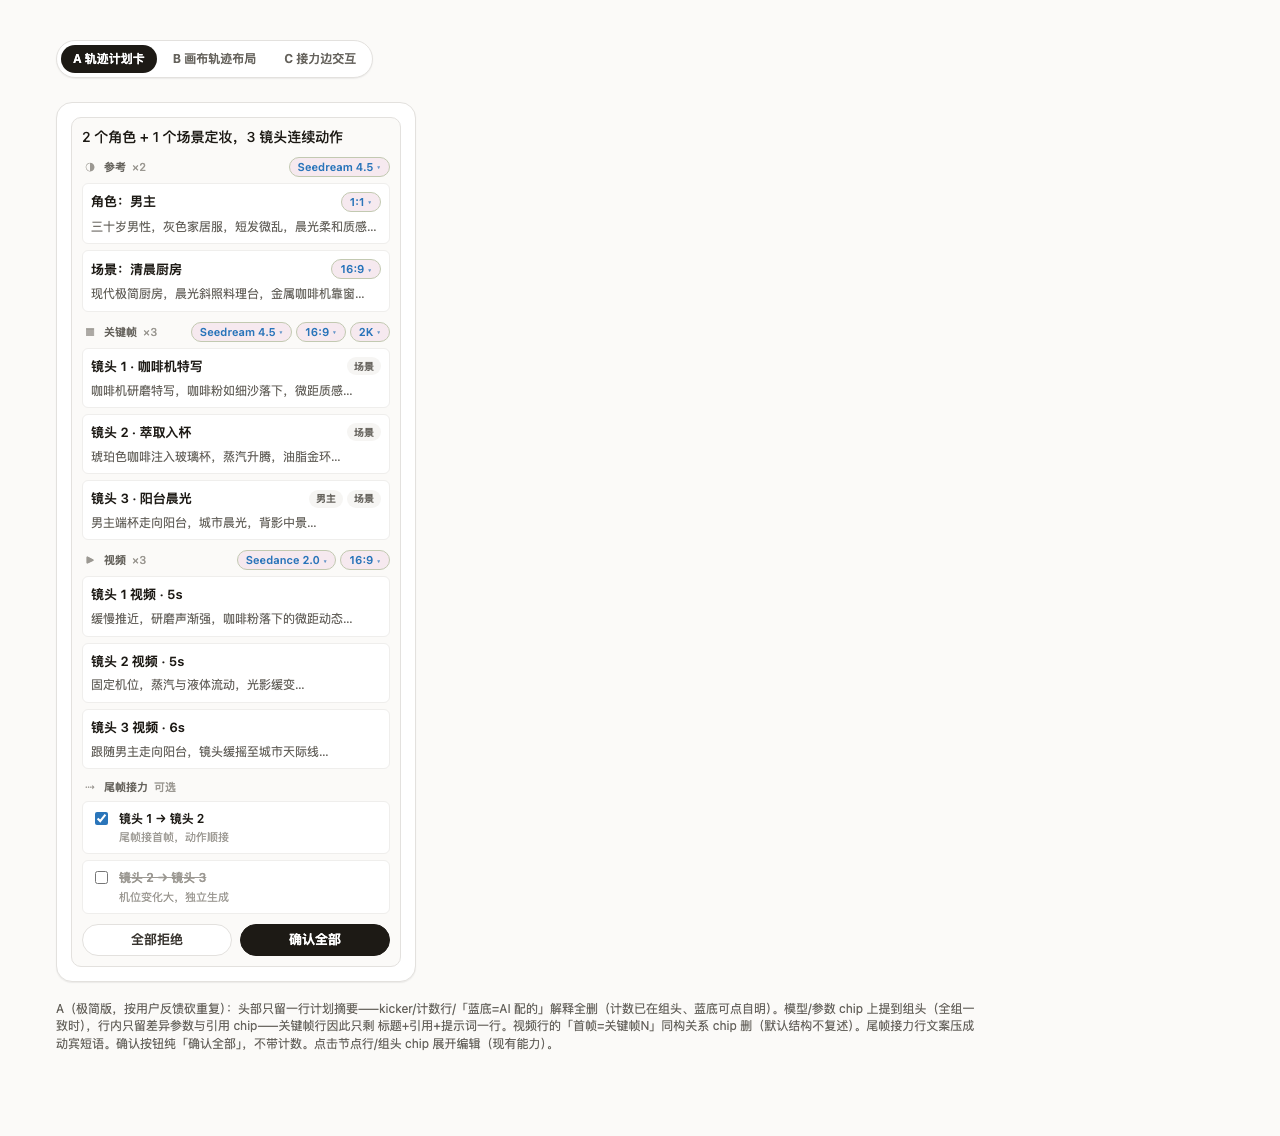
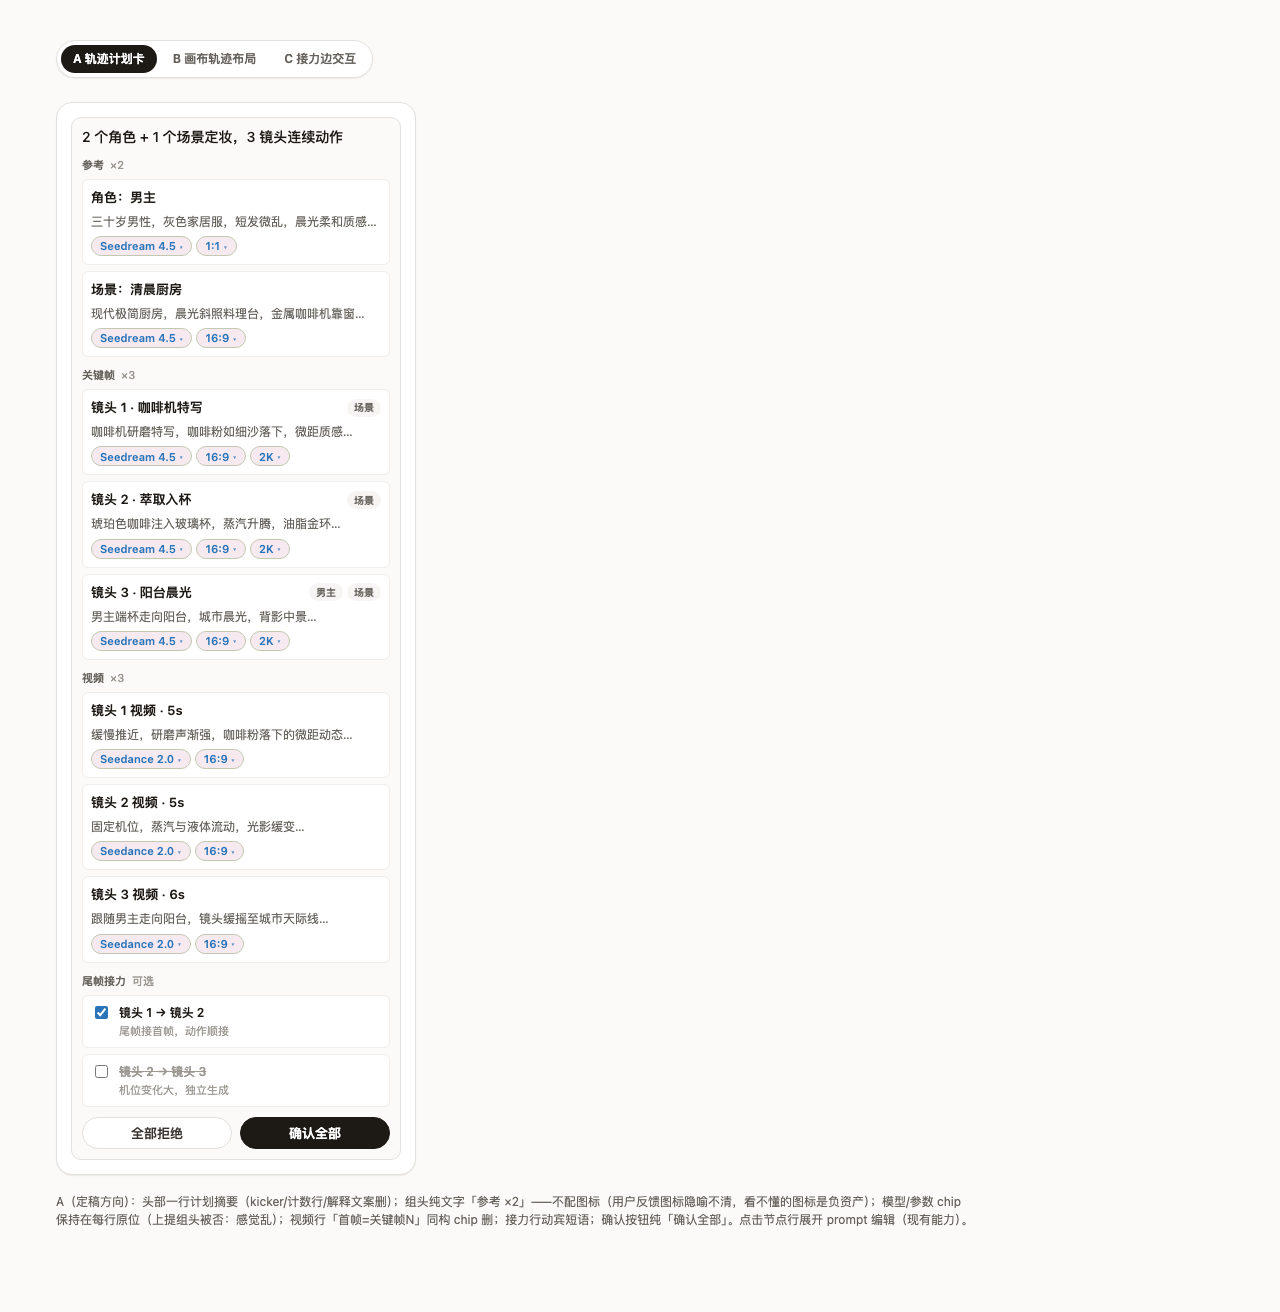
docs(design): T3 计划卡定稿——参数 chip 回行内、组头去图标纯文字
为什么:用户反馈 ①参数上提组头感觉乱,放回原位;②组头图标(◑▦▶⇢)
隐喻不清看不懂——看不懂的图标是负资产,删。

做了什么:模型/参数 chip 回到每行;组头纯文字「参考 ×2/关键帧 ×3/
视频 ×3/尾帧接力·可选」;其余极简改动保留(一行头部摘要/无解释文案/
确认全部不带计数/接力行动宾短语)。

Changed region(s): [[0.0312, 0.0308, 0.75, 0.9551]]

diff --git a/docs/design/mockups/2026-06-13-trajectory-plan-card.html b/docs/design/mockups/2026-06-13-trajectory-plan-card.html
@@ -75,9 +75,7 @@
       display: flex; align-items: center; gap: 6px;
       color: var(--nomi-ink-60); font-size: 11px; font-weight: 650;
     }
-    .layer-head .ic { display: inline-grid; place-items: center; width: 16px; height: 16px; color: var(--nomi-ink-40); }
     .layer-head .count { color: var(--nomi-ink-40); font-weight: 500; }
-    .layer-head .head-chips { margin-left: auto; display: inline-flex; gap: 4px; }
 
     .node-row {
       display: flex; flex-direction: column; gap: 6px;
@@ -190,51 +188,59 @@
         <div class="plan-summary">2 个角色 + 1 个场景定妆，3 镜头连续动作</div>
 
         <section class="layer">
-          <div class="layer-head"><span class="ic">◑</span>参考 <span class="count">×2</span><span class="head-chips"><span class="model-chip">Seedream 4.5 <span class="v">▾</span></span></span></div>
+          <div class="layer-head">参考 <span class="count">×2</span></div>
           <div class="node-row">
-            <div class="head"><span class="title">角色：男主</span><span class="refs"><span class="model-chip">1:1 <span class="v">▾</span></span></span></div>
+            <div class="head"><span class="title">角色：男主</span></div>
             <div class="prompt">三十岁男性，灰色家居服，短发微乱，晨光柔和质感…</div>
+            <div class="chips"><span class="model-chip">Seedream 4.5 <span class="v">▾</span></span><span class="model-chip">1:1 <span class="v">▾</span></span></div>
           </div>
           <div class="node-row">
-            <div class="head"><span class="title">场景：清晨厨房</span><span class="refs"><span class="model-chip">16:9 <span class="v">▾</span></span></span></div>
+            <div class="head"><span class="title">场景：清晨厨房</span></div>
             <div class="prompt">现代极简厨房，晨光斜照料理台，金属咖啡机靠窗…</div>
+            <div class="chips"><span class="model-chip">Seedream 4.5 <span class="v">▾</span></span><span class="model-chip">16:9 <span class="v">▾</span></span></div>
           </div>
         </section>
 
         <section class="layer">
-          <div class="layer-head"><span class="ic">▦</span>关键帧 <span class="count">×3</span><span class="head-chips"><span class="model-chip">Seedream 4.5 <span class="v">▾</span></span><span class="model-chip">16:9 <span class="v">▾</span></span><span class="model-chip">2K <span class="v">▾</span></span></span></div>
+          <div class="layer-head">关键帧 <span class="count">×3</span></div>
           <div class="node-row">
             <div class="head"><span class="title">镜头 1 · 咖啡机特写</span><span class="refs"><span class="ref-chip">场景</span></span></div>
             <div class="prompt">咖啡机研磨特写，咖啡粉如细沙落下，微距质感…</div>
+            <div class="chips"><span class="model-chip">Seedream 4.5 <span class="v">▾</span></span><span class="model-chip">16:9 <span class="v">▾</span></span><span class="model-chip">2K <span class="v">▾</span></span></div>
           </div>
           <div class="node-row">
             <div class="head"><span class="title">镜头 2 · 萃取入杯</span><span class="refs"><span class="ref-chip">场景</span></span></div>
             <div class="prompt">琥珀色咖啡注入玻璃杯，蒸汽升腾，油脂金环…</div>
+            <div class="chips"><span class="model-chip">Seedream 4.5 <span class="v">▾</span></span><span class="model-chip">16:9 <span class="v">▾</span></span><span class="model-chip">2K <span class="v">▾</span></span></div>
           </div>
           <div class="node-row">
             <div class="head"><span class="title">镜头 3 · 阳台晨光</span><span class="refs"><span class="ref-chip">男主</span><span class="ref-chip">场景</span></span></div>
             <div class="prompt">男主端杯走向阳台，城市晨光，背影中景…</div>
+            <div class="chips"><span class="model-chip">Seedream 4.5 <span class="v">▾</span></span><span class="model-chip">16:9 <span class="v">▾</span></span><span class="model-chip">2K <span class="v">▾</span></span></div>
           </div>
         </section>
 
         <section class="layer">
-          <div class="layer-head"><span class="ic">▶</span>视频 <span class="count">×3</span><span class="head-chips"><span class="model-chip">Seedance 2.0 <span class="v">▾</span></span><span class="model-chip">16:9 <span class="v">▾</span></span></span></div>
+          <div class="layer-head">视频 <span class="count">×3</span></div>
           <div class="node-row">
             <div class="head"><span class="title">镜头 1 视频 · 5s</span></div>
             <div class="prompt">缓慢推近，研磨声渐强，咖啡粉落下的微距动态…</div>
+            <div class="chips"><span class="model-chip">Seedance 2.0 <span class="v">▾</span></span><span class="model-chip">16:9 <span class="v">▾</span></span></div>
           </div>
           <div class="node-row">
             <div class="head"><span class="title">镜头 2 视频 · 5s</span></div>
             <div class="prompt">固定机位，蒸汽与液体流动，光影缓变…</div>
+            <div class="chips"><span class="model-chip">Seedance 2.0 <span class="v">▾</span></span><span class="model-chip">16:9 <span class="v">▾</span></span></div>
           </div>
           <div class="node-row">
             <div class="head"><span class="title">镜头 3 视频 · 6s</span></div>
             <div class="prompt">跟随男主走向阳台，镜头缓摇至城市天际线…</div>
+            <div class="chips"><span class="model-chip">Seedance 2.0 <span class="v">▾</span></span><span class="model-chip">16:9 <span class="v">▾</span></span></div>
           </div>
         </section>
 
         <section class="layer">
-          <div class="layer-head"><span class="ic">⇢</span>尾帧接力 <span class="count">可选</span></div>
+          <div class="layer-head">尾帧接力 <span class="count">可选</span></div>
           <div class="relay-row">
             <input type="checkbox" checked aria-label="启用 镜头1→镜头2 尾帧接力" />
             <div>
@@ -257,7 +263,7 @@
         </div>
       </div>
     </div>
-    <p class="note">A（极简版，按用户反馈砍重复）：头部只留一行计划摘要——kicker/计数行/「蓝底=AI 配的」解释全删（计数已在组头、蓝底可点自明）。模型/参数 chip 上提到组头（全组一致时），行内只留差异参数与引用 chip——关键帧行因此只剩 标题+引用+提示词一行。视频行的「首帧=关键帧N」同构关系 chip 删（默认结构不复述）。尾帧接力行文案压成动宾短语。确认按钮纯「确认全部」，不带计数。点击节点行/组头 chip 展开编辑（现有能力）。</p>
+    <p class="note">A（定稿方向）：头部一行计划摘要（kicker/计数行/解释文案删）；组头纯文字「参考 ×2」——不配图标（用户反馈图标隐喻不清，看不懂的图标是负资产）；模型/参数 chip 保持在每行原位（上提组头被否：感觉乱）；视频行「首帧=关键帧N」同构 chip 删；接力行动宾短语；确认按钮纯「确认全部」。点击节点行展开 prompt 编辑（现有能力）。</p>
   </main>
 
   <!-- ===== B ===== -->